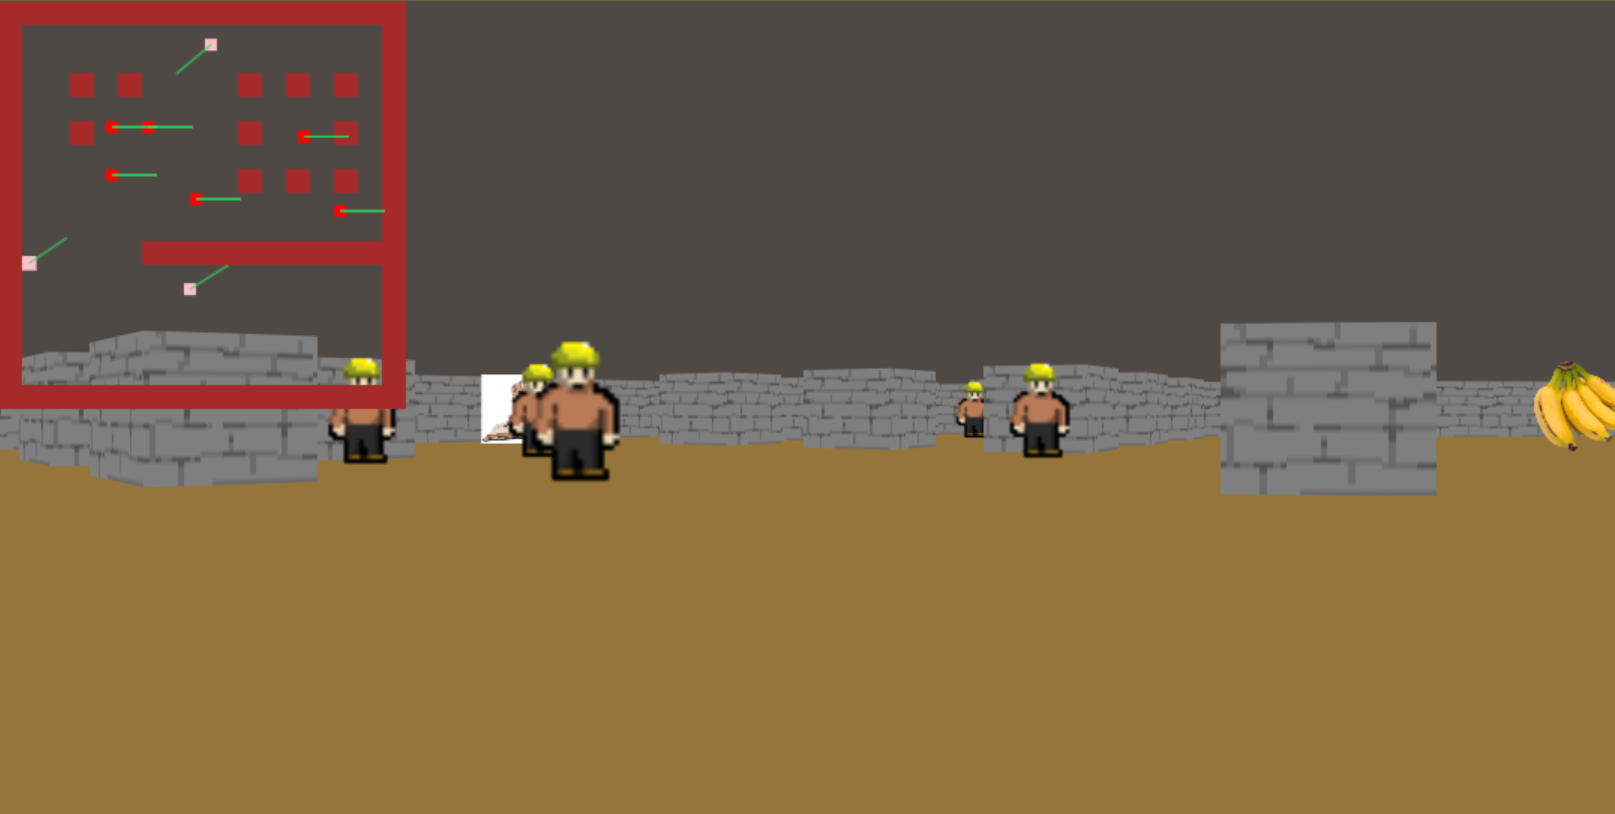
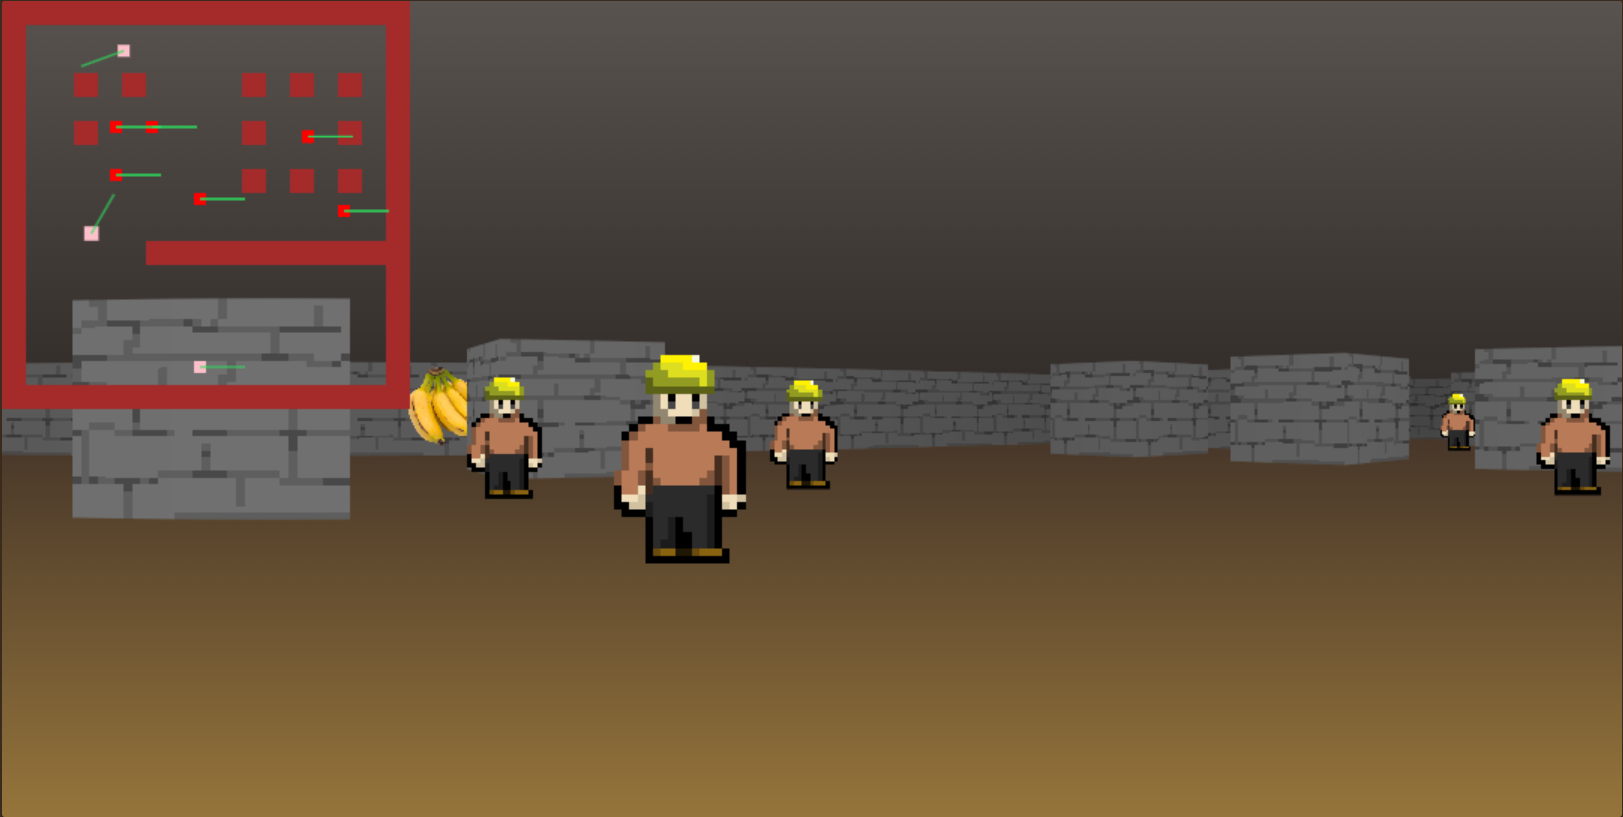
profundidade escura de novo

diff --git a/scripts/raycast.js b/scripts/raycast.js
@@ -10,8 +10,6 @@ function vision(p, entidade, x, y, width, height, fov, res){
     
 
     draw(lista, x, y, width, height, fov, res);
-
-    //rayCasting(p, fov, width, res, lista);
 }
 
 function rayCasting(p, fov, width, res, lista){
@@ -100,20 +98,40 @@ function draw(lista, x, y, width, height, fov, res){
                 imgOffSet = item.x - Math.floor(item.x);
             }
             context.drawImage(textura, Math.floor(imgOffSet*textura.width),0, res, textura.height, x + item.pos*res, y + height/2-tam/2, res,tam);
+            let a = item.dist/20
+
+            context.fillStyle = "rgba(0,0,0," + item.dist/30 + ")";
+            context.fillRect(x + item.pos*res, y + height/2-tam/2, res,tam);
         }
         else{
-            context.drawImage(item.img, 0,0, item.img.width,item.img.height, x + width/2+width*item.ang/fov - width/item.dist/4, y + height/2-tam/2, tam, tam);
+            context.drawImage(item.img, x + width/2+width*item.ang/fov - width/item.dist/4, y + height/2-tam/2, tam, tam); // 0,0, item.img.width,item.img.height
+
+            //context.fillStyle = "rgba(0,0,0," + item.dist/20 + ")";
+            //context.fillRect(x + width/2+width*item.ang/fov - width/item.dist/4, y + height/2-tam/2, tam, tam);
         }
+
 
     });
 
 }
 
 function skyground(x, y, width, height){
-    context.fillStyle="rgb(150, 117, 59)";//chao
+
+    const ground = context.createLinearGradient(0, height/2, 0, height);
+    const roof = context.createLinearGradient(0, 0, 0, height/2);
+
+    ground.addColorStop(0, "rgb(65, 50, 40)");
+    ground.addColorStop(1, "rgb(150, 117, 59)");
+
+    roof.addColorStop(0, "rgb(89, 83, 80)");
+    roof.addColorStop(1, "rgb(49, 43, 40)");
+
+    context.fillStyle = ground; // chao
     context.fillRect(x, y + height/2, width, height/2);
 
-    context.fillStyle="rgb(79, 73, 70)";//ceu
+
+
+    context.fillStyle = roof;//ceu
     context.fillRect(x, y, width, height/2);
 }
 

diff --git a/scripts/main.js b/scripts/main.js
@@ -3,6 +3,8 @@ let context = canvas.getContext("2d");
 let h_border = canvas.height;
 let w_border = canvas.width;
 
+context.imageSmoothingEnabled = false; 
+
 //inicial settings
 const RESIZE= 16;
 const A = Math.PI/180;
@@ -15,6 +17,7 @@ let texto = document.getElementById("texto");
 
 let fov= 90*A;
 let res=1;
+let cameraIndex=0
 
 let blocks = createMap();
 let entidades={
@@ -33,6 +36,7 @@ enemigos(entidades.enemy);
 let textura = new Image();
 SetImage(textura, "./imgs/parede.bmp");
 
+
 setInterval(function(){
     clear();
 
@@ -43,7 +47,7 @@ setInterval(function(){
 
     particlemov(entidades.particle)
 
-    vision(p1, entidades, 0, 0, w_border, h_border, fov, res )
+    vision(entidades.player[cameraIndex], entidades, 0, 0, w_border, h_border, fov, res )
 
     drawInGrid(blocks);
     drawInGrid(entidades.player);
@@ -53,7 +57,7 @@ setInterval(function(){
     drawdir(entidades.enemy);
 
     if(entidades.enemy.length==0 && entidades.player.length<=1 && venceu == false){
-        texto.innerHTML = "Parabéns! Você matou TUDO";
+        texto.innerHTML = "Congratulations! You killed EVERYTHING";
         venceu = true;
     }
 
@@ -67,8 +71,11 @@ document.addEventListener('keydown', (event) => {
     if(event.key=="o"){fov += A;console.log(fov)}
     else if(event.key=="p"){fov -= A;console.log(fov)}
 
-    if(event.key=="k"){if(res>=textura.width)res = textura.width;else res += 1;console.log(res)}
-    else if(event.key=="l"){if(res>1)res -= 1;console.log(res)}
+    //if(event.key=="k"){if(res>=textura.width)res = textura.width;else res += 1;console.log(res)}
+    //else if(event.key=="l"){if(res>1)res -= 1;console.log(res)}
+
+    if(event.key=="n"){cameraIndex++; if(cameraIndex>entidades.player.length)cameraIndex=0;}
+    else if(event.key=="m"){cameraIndex--;if(cameraIndex<0)cameraIndex=entidades.player.length-1;}
  });
  
 document.addEventListener('keyup', (event) => {

diff --git a/raycasting.html b/raycasting.html
@@ -27,7 +27,7 @@
 </head>
 <body>
     <div id="texto">
-        Objetivo: Mate TUDO
+        Objetivo: kill EVERYTHING
     </div>
 
     <canvas id="canvas" height="544" width="1080"></canvas>
@@ -37,7 +37,8 @@
             Player 2 - y g h j<br>
             Player 3 - ↑ ← ↓ →<br>
             <br>
-            Change FOV - o p
+            Change FOV - o p<br>
+            Change Player Camera - n m<br>
         </p>
     </div>
     <div c="final">
